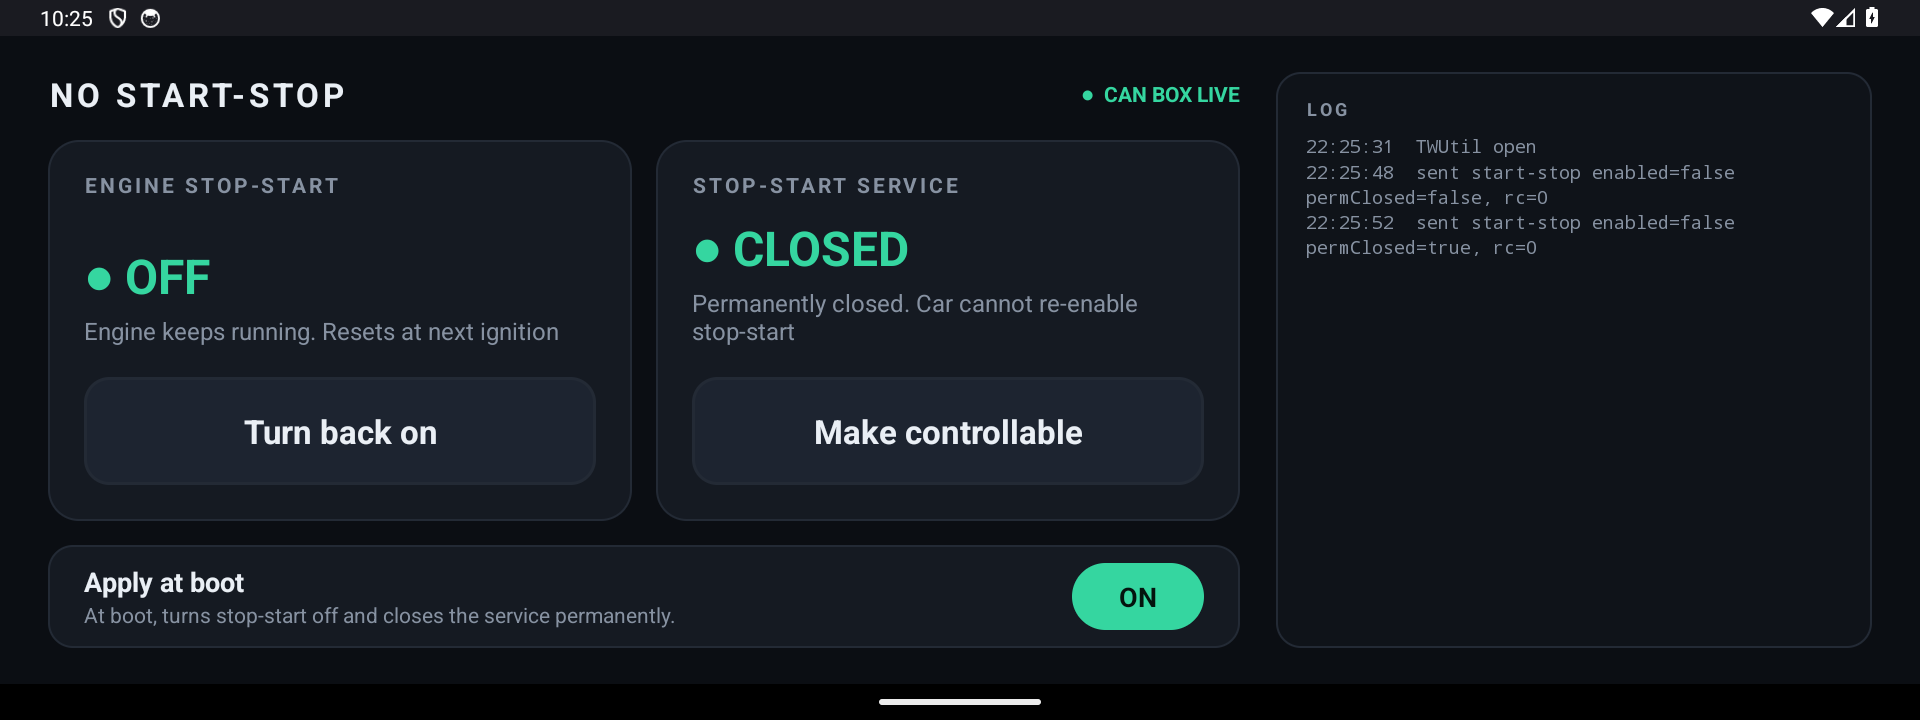
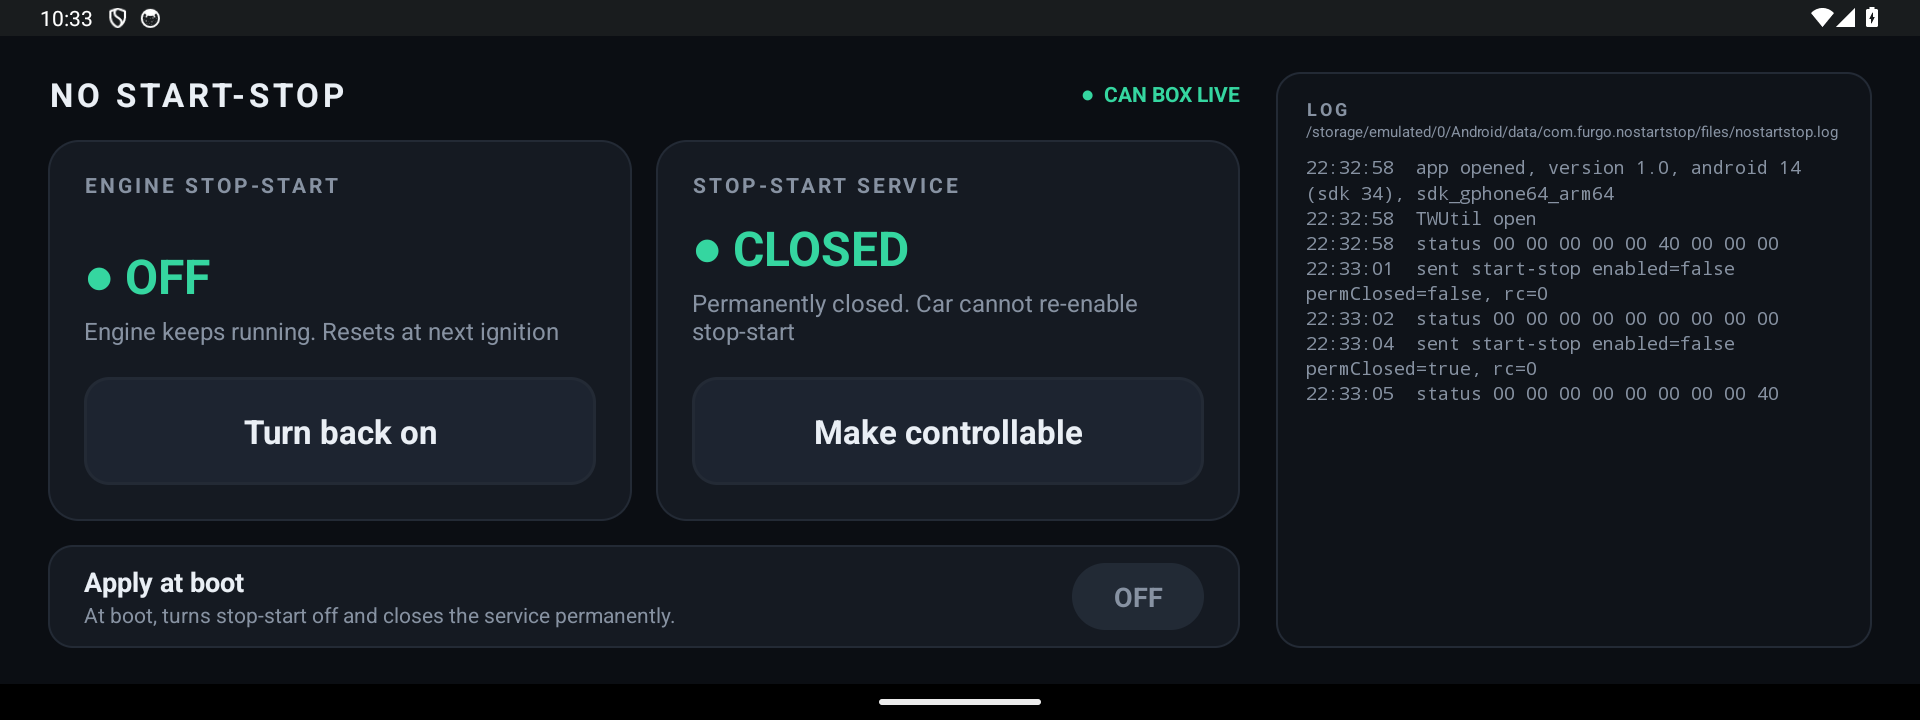
Write the log to a file on shared storage and document how to copy it
Also logs raw status frames and boot service activity, and bumps the CI actions to their current majors.

Changed region(s): [[0.6875, 0.1833, 0.9375, 0.55], [0.5312, 0.7639, 0.625, 0.8861]]

diff --git a/src/com/furgo/nostartstop/MainActivity.java b/src/com/furgo/nostartstop/MainActivity.java
@@ -5,6 +5,7 @@ import android.graphics.Color;
 import android.graphics.Typeface;
 import android.graphics.drawable.GradientDrawable;
 import android.graphics.drawable.StateListDrawable;
+import android.os.Build;
 import android.os.Bundle;
 import android.os.Handler;
 import android.os.SystemClock;
@@ -16,10 +17,7 @@ import android.widget.LinearLayout;
 import android.widget.ScrollView;
 import android.widget.TextView;
 
-import java.text.SimpleDateFormat;
 import java.util.ArrayDeque;
-import java.util.Date;
-import java.util.Locale;
 
 public class MainActivity extends Activity implements CanBox.Listener {
     private static final int BG = 0xFF0B0E13;
@@ -39,7 +37,6 @@ public class MainActivity extends Activity implements CanBox.Listener {
 
     private final Handler handler = new Handler();
     private final ArrayDeque<String> log = new ArrayDeque<String>();
-    private final SimpleDateFormat clock = new SimpleDateFormat("HH:mm:ss", Locale.US);
 
     private CanBox box;
     private boolean opened;
@@ -83,7 +80,17 @@ public class MainActivity extends Activity implements CanBox.Listener {
         density = getResources().getDisplayMetrics().density;
         box = new CanBox(this);
         setContentView(buildUi());
+        LogFile.append(this, "app opened, version " + versionName() + ", android " + Build.VERSION.RELEASE
+                + " (sdk " + Build.VERSION.SDK_INT + "), " + Build.MODEL);
         render();
+    }
+
+    private String versionName() {
+        try {
+            return getPackageManager().getPackageInfo(getPackageName(), 0).versionName;
+        } catch (Exception e) {
+            return "unknown";
+        }
     }
 
     @Override
@@ -92,6 +99,10 @@ public class MainActivity extends Activity implements CanBox.Listener {
         enabled = null;
         closed = null;
         link = LINK_WAITING;
+        // Reload from the file so lines written by the boot service show up too.
+        log.clear();
+        log.addAll(LogFile.tail(this, MAX_LOG));
+        renderLog();
         opened = box.open();
         if (!opened) link = LINK_DOWN;
         render();
@@ -118,10 +129,14 @@ public class MainActivity extends Activity implements CanBox.Listener {
 
     @Override
     public void onLog(String line) {
-        log.addLast(clock.format(new Date()) + "  " + line);
+        log.addLast(LogFile.append(this, line));
         while (log.size() > MAX_LOG) log.removeFirst();
+        renderLog();
+    }
+
+    private void renderLog() {
         StringBuilder sb = new StringBuilder();
-        for (String s : log) sb.append(s).append('\n');
+        for (String s : log) sb.append(s.length() > 11 ? s.substring(11) : s).append('\n');
         logView.setText(sb.toString().trim());
         logScroll.post(new Runnable() {
             @Override
@@ -277,6 +292,8 @@ public class MainActivity extends Activity implements CanBox.Listener {
         TextView logTitle = text("LOG", 12, MUTED, true);
         logTitle.setLetterSpacing(0.16f);
         logCard.addView(logTitle);
+        TextView logPath = text(LogFile.file(this).getPath(), 10, MUTED, false);
+        logCard.addView(logPath);
         logScroll = new ScrollView(this);
         logView = text("", 12, MUTED, false);
         logView.setTypeface(Typeface.MONOSPACE);

diff --git a/src/com/furgo/nostartstop/LogFile.java b/src/com/furgo/nostartstop/LogFile.java
@@ -1,0 +1,63 @@
+package com.furgo.nostartstop;
+
+import android.content.Context;
+import android.util.Log;
+
+import java.io.BufferedReader;
+import java.io.File;
+import java.io.FileReader;
+import java.io.FileWriter;
+import java.io.IOException;
+import java.text.SimpleDateFormat;
+import java.util.ArrayDeque;
+import java.util.Date;
+import java.util.Locale;
+
+/** Log kept on shared storage so it can be copied off the head unit without adb. */
+final class LogFile {
+    private static final String NAME = "nostartstop.log";
+    private static final long MAX_BYTES = 512 * 1024;
+
+    static File file(Context c) {
+        File dir = c.getExternalFilesDir(null);
+        if (dir == null) dir = c.getFilesDir();
+        return new File(dir, NAME);
+    }
+
+    /** Appends a timestamped line and returns it as written. */
+    static String append(Context c, String line) {
+        String stamped = new SimpleDateFormat("yyyy-MM-dd HH:mm:ss", Locale.US).format(new Date()) + "  " + line;
+        try {
+            File f = file(c);
+            if (f.length() > MAX_BYTES) f.renameTo(new File(f.getPath() + ".1"));
+            FileWriter w = new FileWriter(f, true);
+            try {
+                w.write(stamped + "\n");
+            } finally {
+                w.close();
+            }
+        } catch (IOException e) {
+            Log.w("NoStartStop", "log file: " + e);
+        }
+        return stamped;
+    }
+
+    static ArrayDeque<String> tail(Context c, int max) {
+        ArrayDeque<String> lines = new ArrayDeque<String>();
+        try {
+            BufferedReader r = new BufferedReader(new FileReader(file(c)));
+            try {
+                String line;
+                while ((line = r.readLine()) != null) {
+                    lines.addLast(line);
+                    if (lines.size() > max) lines.removeFirst();
+                }
+            } finally {
+                r.close();
+            }
+        } catch (IOException e) {
+            // No log yet.
+        }
+        return lines;
+    }
+}

diff --git a/src/com/furgo/nostartstop/BootService.java b/src/com/furgo/nostartstop/BootService.java
@@ -29,6 +29,7 @@ public class BootService extends Service implements CanBox.Listener {
         public void run() {
             long elapsed = SystemClock.elapsedRealtime() - startedAt;
             if (elapsed >= TIMEOUT_MS) {
+                onLog("gave up after " + TIMEOUT_MS / 1000 + " s");
                 finish();
                 return;
             }
@@ -51,6 +52,7 @@ public class BootService extends Service implements CanBox.Listener {
         if (canBox != null) return START_NOT_STICKY;
         startForeground(1, buildNotification());
         canBox = new CanBox(this);
+        onLog("service started");
         startedAt = SystemClock.elapsedRealtime();
         handler.post(tick);
         return START_NOT_STICKY;
@@ -72,6 +74,7 @@ public class BootService extends Service implements CanBox.Listener {
     public void onState(boolean startStopEnabled, boolean permanentlyClosed) {
         statusSeen = true;
         if (!startStopEnabled && permanentlyClosed) {
+            onLog("confirmed off and closed");
             finish();
         } else {
             send();
@@ -80,6 +83,7 @@ public class BootService extends Service implements CanBox.Listener {
 
     @Override
     public void onLog(String line) {
+        LogFile.append(this, "boot: " + line);
     }
 
     private void send() {

diff --git a/src/com/furgo/nostartstop/CanBox.java b/src/com/furgo/nostartstop/CanBox.java
@@ -6,6 +6,7 @@ import android.os.Message;
 import android.tw.john.TWUtil;
 import android.util.Log;
 
+import java.util.Arrays;
 import java.util.Locale;
 
 /** One connection to the CAN box through TWUtil. Main-thread only. */
@@ -29,6 +30,7 @@ final class CanBox {
     private final String tag = TAG + "-" + (instances++);
     private TWUtil tw;
     private boolean shortFrameLogged;
+    private byte[] lastFrame;
 
     private final Handler handler = new Handler(Looper.getMainLooper()) {
         @Override
@@ -113,6 +115,10 @@ final class CanBox {
                 log("status frame too short: " + hex(b));
             }
             return;
+        }
+        if (!Arrays.equals(b, lastFrame)) {
+            lastFrame = b.clone();
+            log("status " + hex(b));
         }
         listener.onState((b[5] & 0x40) != 0, (b[8] & 0x40) != 0);
     }

diff --git a/README.md b/README.md
@@ -31,6 +31,32 @@ The screenshots are from an emulator at 1920x720 with a simulated CAN box. On a 
 
 To update, install the new APK over the old one the same way. Release APKs all share one signing key, so they update each other. A locally built APK is signed with your own debug key: uninstall the old version before switching between a release and a local build.
 
+## Getting the log off the head unit
+
+The app writes everything shown in its LOG panel, plus what the boot service did, to a text file:
+
+```
+Android/data/com.furgo.nostartstop/files/nostartstop.log
+```
+
+on the head unit's internal storage (full path `/storage/emulated/0/Android/data/com.furgo.nostartstop/files/nostartstop.log`; the app shows the exact path under the LOG title). When it passes 512 KB it is renamed to `nostartstop.log.1` and a new file is started.
+
+To copy it without adb:
+
+1. Plug a pendrive into the head unit.
+2. Open the head unit's file manager and go to internal storage, then `Android/data/com.furgo.nostartstop/files/`.
+3. Copy `nostartstop.log` to the pendrive.
+
+Each line has a date and time. Lines to look for:
+
+- `app opened, version …, android …`: app and Android version.
+- `TWUtil open` / `TWUtil unavailable: …`: whether the head unit's MCU link works.
+- `status 00 00 …`: the raw settings frame from the CAN box, logged whenever it changes.
+- `sent start-stop enabled=… permClosed=…, rc=…`: a command sent to the CAN box.
+- `boot: …`: what the boot service did.
+
+With adb the same file is at `adb pull /sdcard/Android/data/com.furgo.nostartstop/files/nostartstop.log`.
+
 ## Install with adb
 
 ```sh
